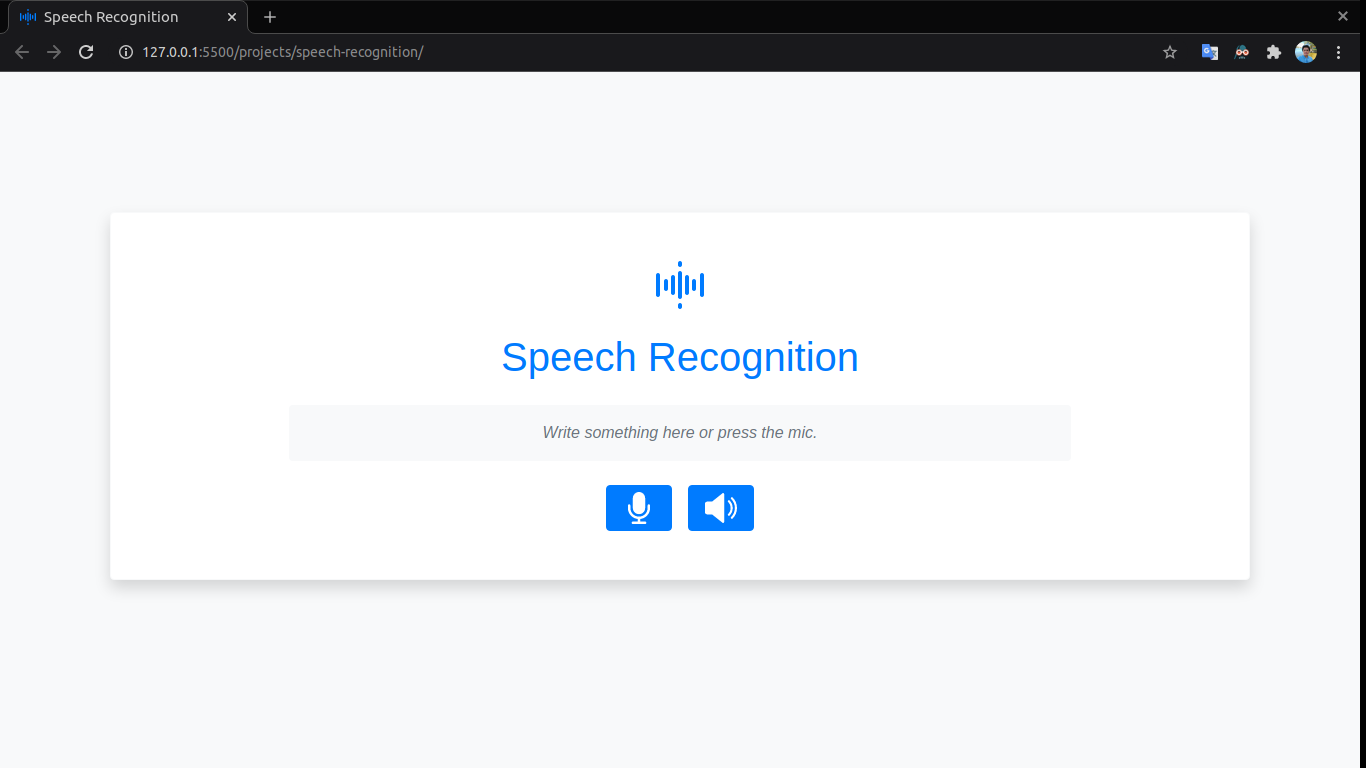
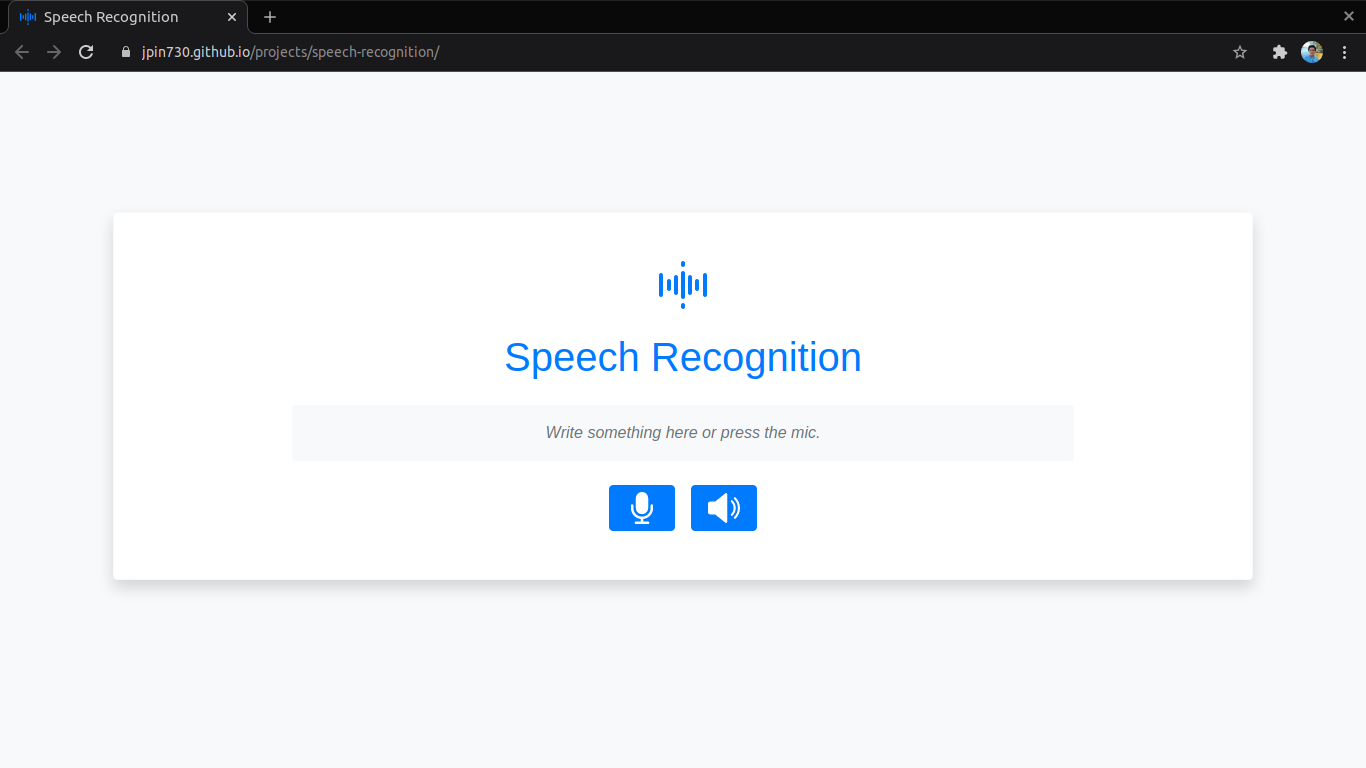
Changing speech-recognition img and container media padding.

diff --git a/projects/speech-recognition/style.css b/projects/speech-recognition/style.css
@@ -8,7 +8,8 @@
   }
 
   div.container {
-    padding: 0!important;
+    padding-top: 0!important;
+    padding-bottom: 0!important;
     border: none!important;
     box-shadow: none!important;
     background: none!important;
